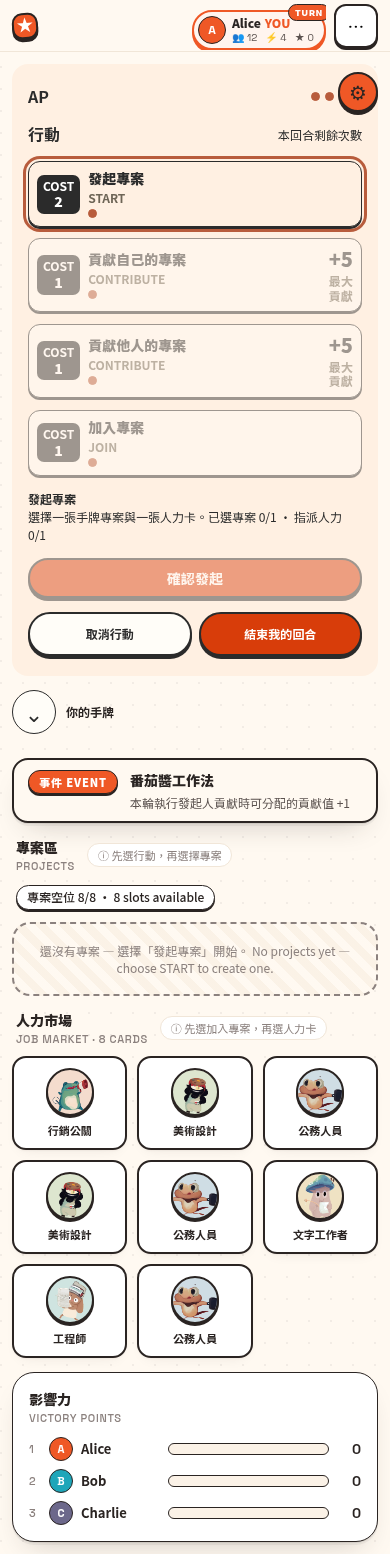
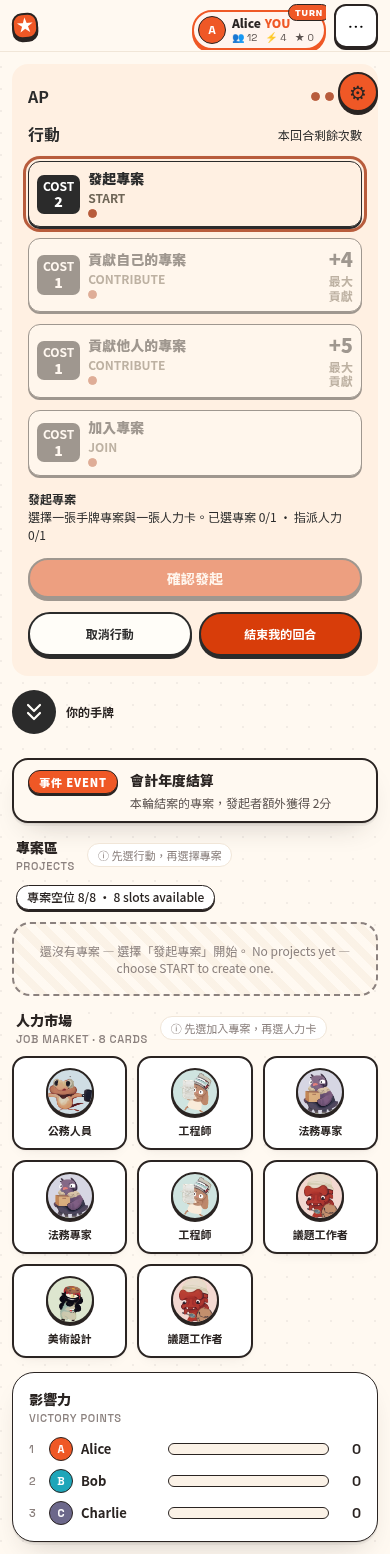
feat(webapp): use double-chevron arrows in action panel

diff --git a/packages/webapp/src/components/board/MobileSheet.tsx b/packages/webapp/src/components/board/MobileSheet.tsx
@@ -1,5 +1,5 @@
 import { ReactNode, useState } from 'react';
-import { IconButton } from '@/components/design';
+import { DoubleChevron, IconButton } from '@/components/design';
 
 /** Mobile stacks the actions and collapsible hand in normal document flow. */
 export default function MobileSheet({
@@ -27,7 +27,7 @@ export default function MobileSheet({
               aria-controls="mobile-hand"
               onClick={() => setExpanded((value) => !value)}
             >
-              {expanded ? '⌃' : '⌄'}
+              <DoubleChevron direction={expanded ? 'up' : 'down'} />
             </IconButton>
             <span style={{ fontSize: 12, fontWeight: 700 }}>你的手牌</span>
           </div>
